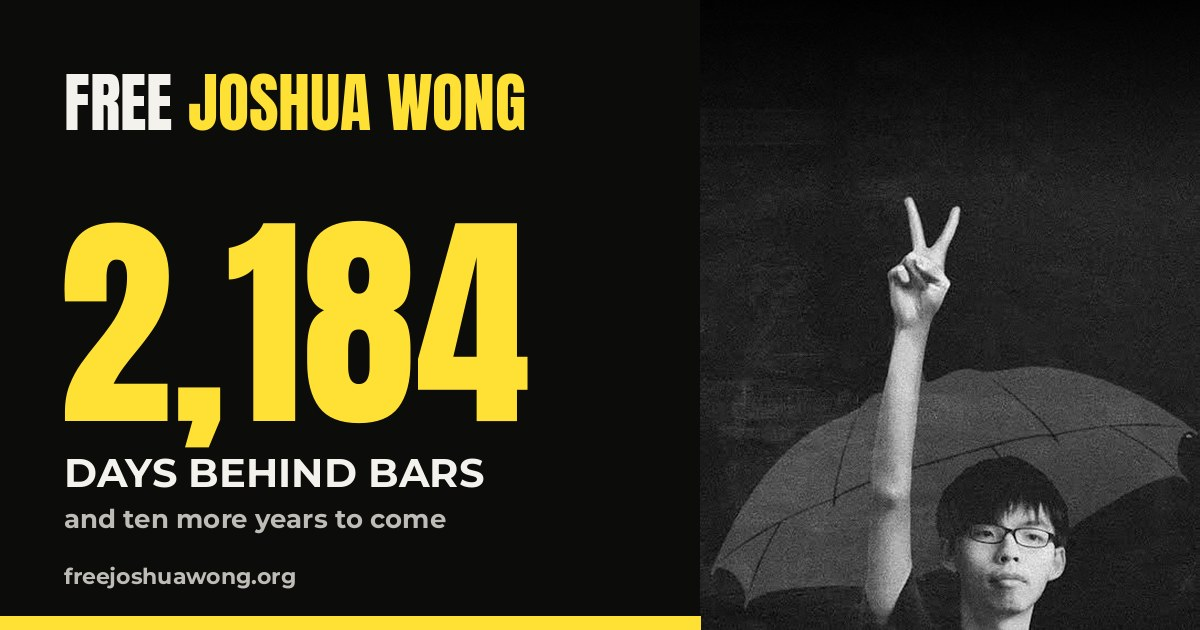
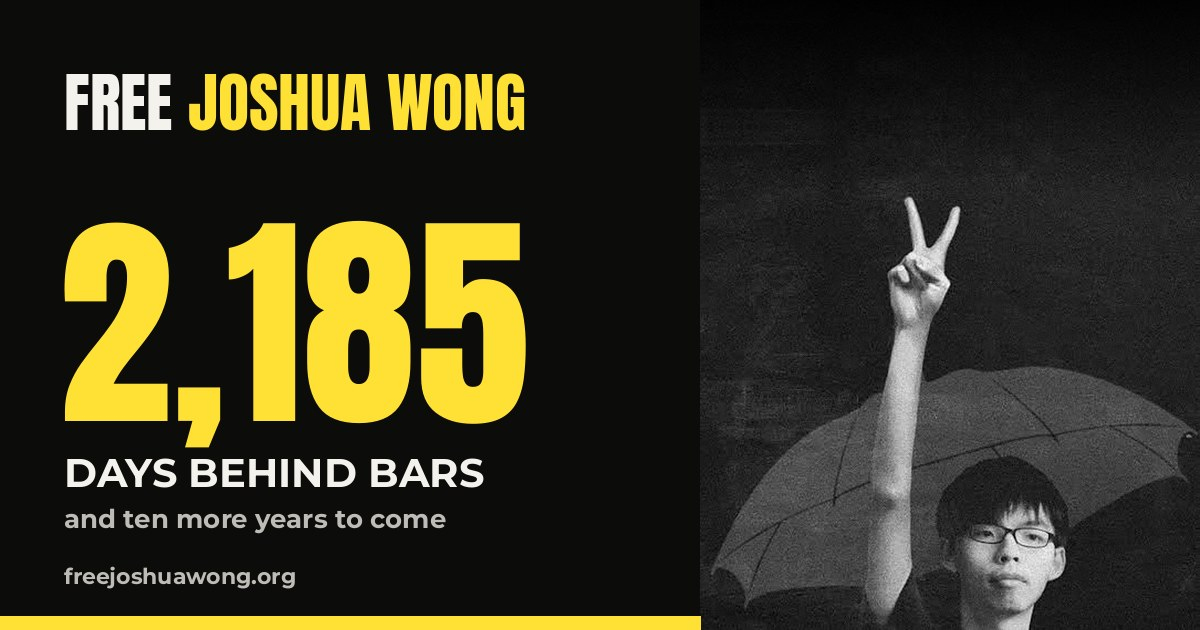
Write to your MP: find MP by postcode and open a pre-filled email
WriteToThem can't be pre-filled and its campaign terms block pasted
template letters. The postcode box now looks up the MP via UK Parliament's
Members API and opens an email (mail app, Gmail or Outlook) with the
letter and MP's address filled in. Also fixes the MP box overflowing on
phones.

Claude-Session: https://claude.ai/code/session_01MmFPUvhE95qVANrbvdPVAE

Changed region(s): [[0.3392, 0.3317, 0.4625, 0.6937]]

diff --git a/assets/site.js b/assets/site.js
@@ -302,18 +302,56 @@ document.querySelectorAll('[data-since]').forEach(function (el) {
   if (location.hash) { var el = document.getElementById(location.hash.slice(1)); if (el) { el.classList.add('s-hl'); el.scrollIntoView({block: 'center'}); } }
 })();
 
-// ===== Postcode box: copy the letter, then open WriteToThem for the person's MP =====
+// ===== Postcode box: find the person's MP (UK Parliament Members API), then open an email with the letter filled in =====
 document.querySelectorAll('form[data-mp]').forEach(function (f) {
-  f.addEventListener('submit', function () {
-    var tpl = document.getElementById('tpl');
-    var text = tpl ? tpl.textContent.trim() : '';
-    var ok = f.querySelector('.pc-ok');
-    function shown() { if (ok) ok.hidden = false; }
-    try {
-      if (navigator.clipboard && text) navigator.clipboard.writeText(text).then(shown, shown);
-      else shown();
-    } catch (e) { shown(); }
-    // the form itself opens WriteToThem in a new tab
+  var API = 'https://members-api.parliament.uk/api/';
+  var SUBJECT = 'Joshua Wong: please ask the Government to summon the Chinese Ambassador';
+  var q = function (s) { return f.querySelector(s); };
+  var input = q('input[name=pc]'), btn = q('button[type=submit]'), err = q('.pc-err'), ok = q('.pc-ok');
+  var label = btn.textContent, letter = '';
+  function fail(msg) { err.textContent = msg; err.hidden = false; ok.hidden = true; }
+  function getJSON(u) { return fetch(u, {headers: {Accept: 'application/json'}}).then(function (r) { if (!r.ok) throw new Error(r.status); return r.json(); }); }
+  q('.pc-copy').addEventListener('click', function () {
+    var b = this;
+    try { navigator.clipboard.writeText(letter).then(function () { b.textContent = 'letter copied'; }); } catch (e) {}
+  });
+  f.addEventListener('submit', function (ev) {
+    ev.preventDefault();
+    var pc = input.value.replace(/\s+/g, ' ').trim().toUpperCase();
+    if (!/^[A-Z]{1,2}[0-9][0-9A-Z]? ?[0-9][A-Z]{2}$/.test(pc)) { fail('Please enter a full UK postcode, for example SW1A 1AA.'); return; }
+    err.hidden = true; btn.disabled = true; btn.textContent = 'Finding your MP…';
+    var mp;
+    getJSON(API + 'Location/Constituency/Search?take=1&searchText=' + encodeURIComponent(pc))
+      .then(function (d) {
+        var c = d.items && d.items[0] && d.items[0].value;
+        var m = c && c.currentRepresentation && c.currentRepresentation.member && c.currentRepresentation.member.value;
+        if (!m) throw new Error('notfound');
+        mp = {id: m.id, name: m.nameDisplayAs, title: m.nameFullTitle || m.nameDisplayAs, seat: c.name,
+              party: m.latestParty ? m.latestParty.name : ''};
+        return getJSON(API + 'Members/' + mp.id + '/Contact');
+      })
+      .then(function (d) {
+        var list = (d.value || []).filter(function (x) { return x.email; });
+        var pick = list.filter(function (x) { return /parliament/i.test(x.type || ''); })[0] || list[0];
+        mp.email = pick ? pick.email.trim() : '';
+        var tpl = document.getElementById('tpl');
+        letter = (tpl ? tpl.textContent.trim() : '').replace('[MP name]', mp.name);
+        var s = encodeURIComponent(SUBJECT), b = encodeURIComponent(letter), to = encodeURIComponent(mp.email);
+        q('.pc-mp').textContent = 'Your MP is ' + mp.title + (mp.party ? ' (' + mp.party + ')' : '') + ', ' + mp.seat + '.';
+        q('.pc-mail').href = 'mailto:' + mp.email + '?subject=' + s + '&body=' + b;
+        q('.pc-mail').textContent = 'Email ' + mp.name;
+        q('.pc-gmail').href = 'https://mail.google.com/mail/?view=cm&fs=1&to=' + to + '&su=' + s + '&body=' + b;
+        q('.pc-outlook').href = 'https://outlook.live.com/mail/0/deeplink/compose?to=' + to + '&subject=' + s + '&body=' + b;
+        q('.pc-addr').textContent = mp.email || 'your MP (contact details at members.parliament.uk)';
+        ok.hidden = false;
+        q('.pc-mail').focus();
+      })
+      .catch(function (e) {
+        fail(e && e.message === 'notfound'
+          ? 'We couldn’t find an MP for that postcode. Please check it and try again.'
+          : 'Sorry, we couldn’t reach UK Parliament’s MP finder just now. Please try again, or copy the letter and find your MP at members.parliament.uk.');
+      })
+      .then(function () { btn.disabled = false; btn.textContent = label; });
   });
 });
 

diff --git a/index.html b/index.html
@@ -20,7 +20,7 @@
 <link rel="preconnect" href="https://fonts.googleapis.com">
 <link rel="preconnect" href="https://fonts.gstatic.com" crossorigin>
 <link href="https://fonts.googleapis.com/css2?family=Anton&family=Montserrat:wght@500;600;700;800&family=Newsreader:ital,opsz,wght@0,6..72,300..600;1,6..72,300..500&display=swap" rel="stylesheet">
-<link rel="stylesheet" href="assets/site.css?v=b6bb3466">
+<link rel="stylesheet" href="assets/site.css?v=55109fb8">
 </head>
 <body>
 <nav class="top" aria-label="Main">
@@ -42,7 +42,7 @@
       <div class="r now"><span class="y">2026</span><b>Prisoner vs. Superpower</b></div>
       <div class="r cell-row"><span class="y">Now</span>
         <div class="cell" role="timer" aria-label="Days Joshua Wong has spent in prison">
-          <div class="cell-in"><span class="n" id="days">2,184</span><span class="u">days<br>behind bars</span></div>
+          <div class="cell-in"><span class="n" id="days">2,185</span><span class="u">days<br>behind bars</span></div>
           <div class="tick" aria-hidden="true">and counting: <span id="clock">0h 00m 00s</span></div>
         </div>
       </div>
@@ -152,14 +152,18 @@
 <section class="h4-act" id="write">
   <div class="wrap">
     <h2>Tell your MP: summon China’s Ambassador</h2>
-    <p>Two minutes. We’ve written the letter. Put in your postcode, and we’ll copy it and take you straight to your MP. <a href="act.html#mp">Read the letter first</a></p>
-    <form class="pcbox" data-mp action="https://www.writetothem.com/" method="get" target="_blank">
+    <p>Two minutes. We’ve written the letter. Put in your postcode and we’ll find your MP and open an email to them with the letter filled in. <a href="act.html#mp">Read the letter first</a></p>
+    <form class="pcbox" data-mp novalidate>
       <label for="pc-a">Your postcode</label>
       <div class="pc-row"><input id="pc-a" name="pc" autocomplete="postal-code" placeholder="e.g. SW1A 1AA" required>
-      <input type="hidden" name="a" value="westminstermp"><input type="hidden" name="message_type" value="campaigning">
-      <button type="submit" class="btn dark">Copy the letter and write to my MP</button></div>
-      <p class="pc-ok" hidden>The letter is copied. Paste it into the message box on WriteToThem, add your name and address, and send.</p>
-      <p class="pc-note">WriteToThem is run independently by mySociety. We don’t see or store your postcode or anything you send.</p>
+      <button type="submit" class="btn dark">Find my MP and write</button></div>
+      <p class="pc-err" hidden></p>
+      <div class="pc-ok" hidden>
+        <p class="pc-mp"></p>
+        <p class="pc-links"><a class="btn pc-mail" href="#">Open the email</a> <span class="pc-or">or open in <a class="pc-alt pc-gmail" href="#" target="_blank" rel="noopener">Gmail</a> · <a class="pc-alt pc-outlook" href="#" target="_blank" rel="noopener">Outlook</a></span></p>
+        <p class="pc-tip">The letter is filled in for you. Add your name and full address at the bottom (MPs only reply to their own constituents), then send. If no email opens, <button type="button" class="pc-copy">copy the letter</button> and send it to <b class="pc-addr"></b>.</p>
+      </div>
+      <p class="pc-note">Your postcode is used only to look up your MP on UK Parliament’s website. We don’t see or store it, or anything you send.</p>
     </form>
     <div class="tpl" id="tpl" hidden>Dear [MP name],
 
@@ -242,6 +246,6 @@ Yours sincerely,
   </div>
 </footer>
 <script src="assets/messages.js"></script>
-<script src="assets/site.js?v=b6bb3466"></script>
+<script src="assets/site.js?v=55109fb8"></script>
 </body>
 </html>

diff --git a/assets/site.css b/assets/site.css
@@ -202,6 +202,7 @@ nav .btn{padding:10px 16px;font-size:11px}
 .mp .copy{color:var(--ink);border-color:var(--ink);margin-top:12px}
 .mp .copy:hover,.mp .copy.done{background:var(--ink);color:var(--accent)}
 @media(max-width:900px){.asks,.mp{grid-template-columns:1fr}.mp{padding:32px 26px}}
+.mp>div{min-width:0}.mp h3{overflow-wrap:break-word}
 
 footer{padding:56px 0 70px;border-top:1px solid rgba(244,242,236,.1);font-family:var(--label);font-size:13px;color:var(--muted)}
 footer .wrap{display:flex;justify-content:space-between;gap:30px;flex-wrap:wrap}
@@ -887,7 +888,16 @@ html[lang^="zh"] .phead h1{font-family:var(--display),"PingFang HK","Noto Sans T
 .pc-row{display:flex;gap:10px;flex-wrap:wrap}
 .pc-row input{flex:1 1 180px;min-height:52px;font:600 18px var(--label);padding:0 16px;border:2px solid var(--ink);background:#fff;color:var(--ink);text-transform:uppercase;border-radius:0}
 .pc-row .btn{min-height:52px;flex:0 0 auto}
-.pc-ok{margin:12px 0 0;font-family:var(--label);font-weight:700;font-size:15px;background:var(--ink);color:var(--accent);padding:10px 14px}
+.pc-ok{margin:12px 0 0;font-family:var(--label);font-size:15px;background:var(--ink);color:#fff;padding:14px 16px}
+.pc-ok p{margin:0 0 10px}.pc-ok p:last-child{margin:0}
+.pc-mp{font-weight:700;color:var(--accent)}
+.pc-links{display:flex;gap:14px;align-items:center;flex-wrap:wrap}
+.pc-ok .pc-mail{background:var(--accent);color:var(--ink);min-height:46px}
+.pc-alt{color:#fff;font-weight:700;text-decoration:underline}
+.pc-tip{font-size:14px;opacity:.9}
+.pc-copy{font:inherit;color:var(--accent);background:none;border:0;padding:0;text-decoration:underline;cursor:pointer}
+.pc-addr{overflow-wrap:anywhere}
+.pc-err{margin:12px 0 0;font-family:var(--label);font-weight:700;font-size:15px;background:#fff;color:#b00020;border:2px solid #b00020;padding:10px 14px}
 .pc-note{font-size:14px;margin:12px 0 0;opacity:.7}
 .h4-act .pcbox label,.h4-act .pc-note{color:var(--ink)}
 @media(max-width:600px){.pc-row .btn{width:100%}}
@@ -895,7 +905,8 @@ html[lang^="zh"] .phead h1{font-family:var(--display),"PingFang HK","Noto Sans T
 .pc-row input::placeholder{text-transform:none;font-weight:500}
 .home4 .h4-act h2{font-family:var(--display);font-weight:400;text-transform:uppercase;font-size:clamp(40px,5.2vw,76px);line-height:.95;color:var(--ink);max-width:16ch;margin:0 auto}
 .home4 .h4-act p{max-width:46ch;margin-left:auto;margin-right:auto}
-.home4 .h4-act p a{color:var(--ink);text-decoration:underline;text-underline-offset:3px;font-weight:600}
+.home4 .h4-act p a:not(.btn){color:var(--ink);text-decoration:underline;text-underline-offset:3px;font-weight:600}
+.home4 .h4-act .pc-ok a.pc-alt{color:#fff}.home4 .h4-act .pc-ok a.pc-mail{text-decoration:none;color:var(--ink)}.home4 .h4-act .pc-ok .pc-copy{color:var(--accent)}
 .h4-demand{font-size:clamp(30px,2.9vw,44px);margin:26px 0 0;max-width:18ch}
 .h4-demand+.h4-lead{margin-top:14px}
 .intro .h4-demand{animation:fjw-rise .7s ease-out 3.1s both}

diff --git a/act.html b/act.html
@@ -20,7 +20,7 @@
 <link rel="preconnect" href="https://fonts.googleapis.com">
 <link rel="preconnect" href="https://fonts.gstatic.com" crossorigin>
 <link href="https://fonts.googleapis.com/css2?family=Anton&family=Montserrat:wght@500;600;700;800&family=Newsreader:ital,opsz,wght@0,6..72,300..600;1,6..72,300..500&display=swap" rel="stylesheet">
-<link rel="stylesheet" href="assets/site.css?v=b6bb3466">
+<link rel="stylesheet" href="assets/site.css?v=55109fb8">
 </head>
 <body>
 <nav class="top" aria-label="Main">
@@ -45,14 +45,18 @@
       <div>
         <div class="label" style="color:#6f6a2a">In the UK</div>
         <h3>Tell your MP: summon China’s Ambassador</h3>
-        <p>Two minutes. We’ve written the letter. Put in your postcode, and we’ll copy the letter and take you straight to your MP.</p>
-        <form class="pcbox" data-mp action="https://www.writetothem.com/" method="get" target="_blank">
+        <p>Two minutes. We’ve written the letter. Put in your postcode and we’ll find your MP and open an email to them with the letter already filled in.</p>
+        <form class="pcbox" data-mp novalidate>
       <label for="pc-a">Your postcode</label>
       <div class="pc-row"><input id="pc-a" name="pc" autocomplete="postal-code" placeholder="e.g. SW1A 1AA" required>
-      <input type="hidden" name="a" value="westminstermp"><input type="hidden" name="message_type" value="campaigning">
-      <button type="submit" class="btn dark">Copy the letter and write to my MP</button></div>
-      <p class="pc-ok" hidden>The letter is copied. Paste it into the message box on WriteToThem, add your name and address, and send.</p>
-      <p class="pc-note">WriteToThem is run independently by mySociety. We don’t see or store your postcode or anything you send.</p>
+      <button type="submit" class="btn dark">Find my MP and write</button></div>
+      <p class="pc-err" hidden></p>
+      <div class="pc-ok" hidden>
+        <p class="pc-mp"></p>
+        <p class="pc-links"><a class="btn pc-mail" href="#">Open the email</a> <span class="pc-or">or open in <a class="pc-alt pc-gmail" href="#" target="_blank" rel="noopener">Gmail</a> · <a class="pc-alt pc-outlook" href="#" target="_blank" rel="noopener">Outlook</a></span></p>
+        <p class="pc-tip">The letter is filled in for you. Add your name and full address at the bottom (MPs only reply to their own constituents), then send. If no email opens, <button type="button" class="pc-copy">copy the letter</button> and send it to <b class="pc-addr"></b>.</p>
+      </div>
+      <p class="pc-note">Your postcode is used only to look up your MP on UK Parliament’s website. We don’t see or store it, or anything you send.</p>
     </form>
       </div>
       <div>
@@ -136,6 +140,6 @@ Yours sincerely,
     </div>
   </div>
 </footer>
-<script src="assets/site.js?v=b6bb3466"></script>
+<script src="assets/site.js?v=55109fb8"></script>
 </body>
 </html>

diff --git a/zh.html b/zh.html
@@ -21,7 +21,7 @@
 <link rel="preconnect" href="https://fonts.googleapis.com">
 <link rel="preconnect" href="https://fonts.gstatic.com" crossorigin>
 <link href="https://fonts.googleapis.com/css2?family=Anton&family=Montserrat:wght@500;600;700;800&family=Newsreader:ital,opsz,wght@0,6..72,300..600;1,6..72,300..500&display=swap" rel="stylesheet">
-<link rel="stylesheet" href="assets/site.css?v=b6bb3466">
+<link rel="stylesheet" href="assets/site.css?v=55109fb8">
 </head>
 <body>
 <nav class="top" aria-label="Main">
@@ -78,9 +78,9 @@
     <div class="zh-act">
       <div>
         <h3>寫信給你的國會議員</h3>
-        <p>請你選區的國會議員向外相提出黃之鋒的個案。我們已準備好英文信件範本，你只需複製，加上姓名和地址，再透過 WriteToThem 網站輸入郵遞區號寄出。</p>
-        <p><a class="btn" href="act.html#mp">取得英文信件範本</a></p>
-        <p class="zh-small">WriteToThem 由獨立機構 mySociety 營運。本網站不會看到或儲存你寄出的內容。</p>
+        <p>請你選區的國會議員向外相提出黃之鋒的個案。我們已準備好英文信件範本：輸入郵遞區號，網站會找出你的議員，並在電郵中填好信件，你只需加上姓名和地址再寄出。</p>
+        <p><a class="btn" href="act.html#mp">寫信給你的議員</a></p>
+        <p class="zh-small">郵遞區號只用於在英國國會網站查找你的議員。本網站不會看到或儲存你的郵遞區號或寄出的內容。</p>
       </div>
       <div>
         <h3>分享他的故事</h3>
@@ -121,6 +121,6 @@
     </div>
   </div>
 </footer>
-<script src="assets/site.js?v=b6bb3466"></script>
+<script src="assets/site.js?v=55109fb8"></script>
 </body>
 </html>

diff --git a/socials.html b/socials.html
@@ -20,7 +20,7 @@
 <link rel="preconnect" href="https://fonts.googleapis.com">
 <link rel="preconnect" href="https://fonts.gstatic.com" crossorigin>
 <link href="https://fonts.googleapis.com/css2?family=Anton&family=Montserrat:wght@500;600;700;800&family=Newsreader:ital,opsz,wght@0,6..72,300..600;1,6..72,300..500&display=swap" rel="stylesheet">
-<link rel="stylesheet" href="assets/site.css?v=b6bb3466">
+<link rel="stylesheet" href="assets/site.css?v=55109fb8">
 </head>
 <body>
 <nav class="top" aria-label="Main">
@@ -91,7 +91,7 @@
     </div>
   </div>
 </footer>
-<script src="assets/socials.js?v=b6bb3466"></script>
-<script src="assets/site.js?v=b6bb3466"></script>
+<script src="assets/socials.js?v=55109fb8"></script>
+<script src="assets/site.js?v=55109fb8"></script>
 </body>
 </html>

diff --git a/newsroom.html b/newsroom.html
@@ -20,7 +20,7 @@
 <link rel="preconnect" href="https://fonts.googleapis.com">
 <link rel="preconnect" href="https://fonts.gstatic.com" crossorigin>
 <link href="https://fonts.googleapis.com/css2?family=Anton&family=Montserrat:wght@500;600;700;800&family=Newsreader:ital,opsz,wght@0,6..72,300..600;1,6..72,300..500&display=swap" rel="stylesheet">
-<link rel="stylesheet" href="assets/site.css?v=b6bb3466">
+<link rel="stylesheet" href="assets/site.css?v=55109fb8">
 </head>
 <body>
 <nav class="top" aria-label="Main">
@@ -256,7 +256,7 @@
     </div>
   </div>
 </footer>
-<script src="assets/press.js?v=b6bb3466"></script>
-<script src="assets/site.js?v=b6bb3466"></script>
+<script src="assets/press.js?v=55109fb8"></script>
+<script src="assets/site.js?v=55109fb8"></script>
 </body>
 </html>

diff --git a/voices.html b/voices.html
@@ -20,7 +20,7 @@
 <link rel="preconnect" href="https://fonts.googleapis.com">
 <link rel="preconnect" href="https://fonts.gstatic.com" crossorigin>
 <link href="https://fonts.googleapis.com/css2?family=Anton&family=Montserrat:wght@500;600;700;800&family=Newsreader:ital,opsz,wght@0,6..72,300..600;1,6..72,300..500&display=swap" rel="stylesheet">
-<link rel="stylesheet" href="assets/site.css?v=b6bb3466">
+<link rel="stylesheet" href="assets/site.css?v=55109fb8">
 </head>
 <body>
 <nav class="top" aria-label="Main">
@@ -95,7 +95,7 @@
     </div>
   </div>
 </footer>
-<script src="assets/voices.js?v=b6bb3466"></script>
-<script src="assets/site.js?v=b6bb3466"></script>
+<script src="assets/voices.js?v=55109fb8"></script>
+<script src="assets/site.js?v=55109fb8"></script>
 </body>
 </html>

diff --git a/write.html b/write.html
@@ -20,7 +20,7 @@
 <link rel="preconnect" href="https://fonts.googleapis.com">
 <link rel="preconnect" href="https://fonts.gstatic.com" crossorigin>
 <link href="https://fonts.googleapis.com/css2?family=Anton&family=Montserrat:wght@500;600;700;800&family=Newsreader:ital,opsz,wght@0,6..72,300..600;1,6..72,300..500&display=swap" rel="stylesheet">
-<link rel="stylesheet" href="assets/site.css?v=b6bb3466">
+<link rel="stylesheet" href="assets/site.css?v=55109fb8">
 </head>
 <body>
 <nav class="top" aria-label="Main">
@@ -114,6 +114,6 @@
   </div>
 </footer>
 <script src="assets/messages.js"></script>
-<script src="assets/site.js?v=b6bb3466"></script>
+<script src="assets/site.js?v=55109fb8"></script>
 </body>
 </html>

diff --git a/letters/open-letter-prime-minister-sept-2026.html b/letters/open-letter-prime-minister-sept-2026.html
@@ -20,7 +20,7 @@
 <link rel="preconnect" href="https://fonts.googleapis.com">
 <link rel="preconnect" href="https://fonts.gstatic.com" crossorigin>
 <link href="https://fonts.googleapis.com/css2?family=Anton&family=Montserrat:wght@500;600;700;800&family=Newsreader:ital,opsz,wght@0,6..72,300..600;1,6..72,300..500&display=swap" rel="stylesheet">
-<link rel="stylesheet" href="../assets/site.css?v=b6bb3466">
+<link rel="stylesheet" href="../assets/site.css?v=55109fb8">
 </head>
 <body>
 <nav class="top" aria-label="Main">
@@ -89,6 +89,6 @@
     </div>
   </div>
 </footer>
-<script src="../assets/site.js?v=b6bb3466"></script>
+<script src="../assets/site.js?v=55109fb8"></script>
 </body>
 </html>

diff --git a/letters/times-letter-nov-2026.html b/letters/times-letter-nov-2026.html
@@ -20,7 +20,7 @@
 <link rel="preconnect" href="https://fonts.googleapis.com">
 <link rel="preconnect" href="https://fonts.gstatic.com" crossorigin>
 <link href="https://fonts.googleapis.com/css2?family=Anton&family=Montserrat:wght@500;600;700;800&family=Newsreader:ital,opsz,wght@0,6..72,300..600;1,6..72,300..500&display=swap" rel="stylesheet">
-<link rel="stylesheet" href="../assets/site.css?v=b6bb3466">
+<link rel="stylesheet" href="../assets/site.css?v=55109fb8">
 </head>
 <body>
 <nav class="top" aria-label="Main">
@@ -82,6 +82,6 @@
     </div>
   </div>
 </footer>
-<script src="../assets/site.js?v=b6bb3466"></script>
+<script src="../assets/site.js?v=55109fb8"></script>
 </body>
 </html>

diff --git a/voices/alicia-kearns-mp-2026-11-05.html b/voices/alicia-kearns-mp-2026-11-05.html
@@ -20,7 +20,7 @@
 <link rel="preconnect" href="https://fonts.googleapis.com">
 <link rel="preconnect" href="https://fonts.gstatic.com" crossorigin>
 <link href="https://fonts.googleapis.com/css2?family=Anton&family=Montserrat:wght@500;600;700;800&family=Newsreader:ital,opsz,wght@0,6..72,300..600;1,6..72,300..500&display=swap" rel="stylesheet">
-<link rel="stylesheet" href="../assets/site.css?v=b6bb3466">
+<link rel="stylesheet" href="../assets/site.css?v=55109fb8">
 </head>
 <body>
 <nav class="top" aria-label="Main">
@@ -70,6 +70,6 @@
     </div>
   </div>
 </footer>
-<script src="../assets/site.js?v=b6bb3466"></script>
+<script src="../assets/site.js?v=55109fb8"></script>
 </body>
 </html>
